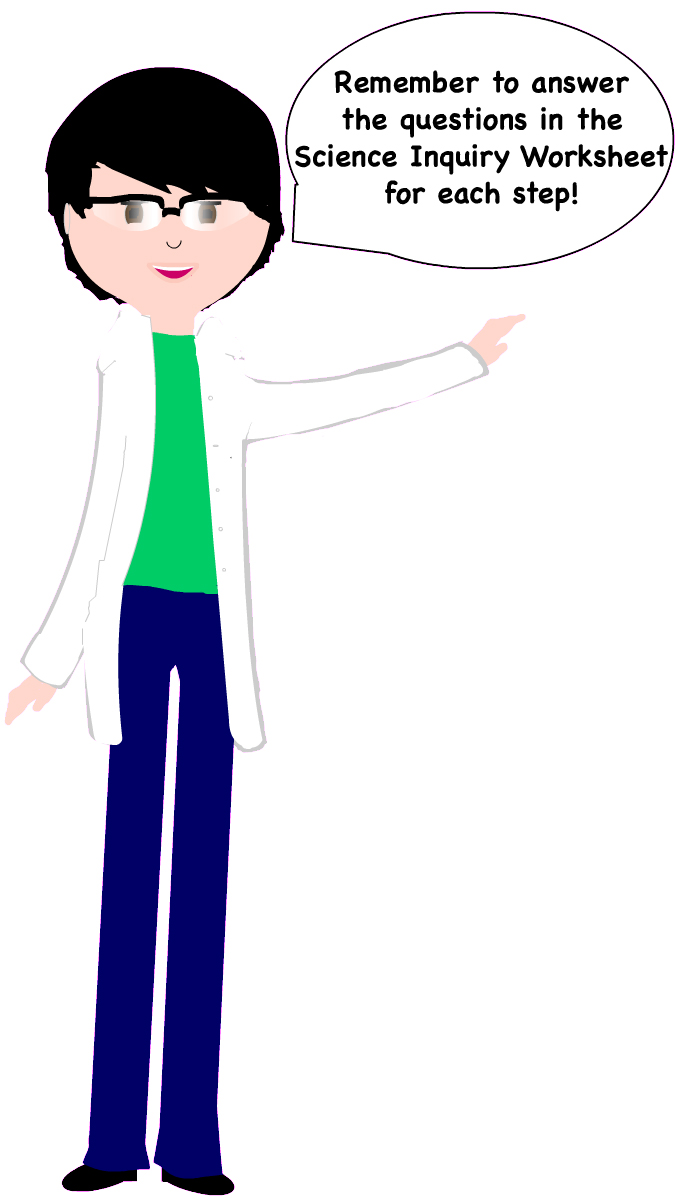
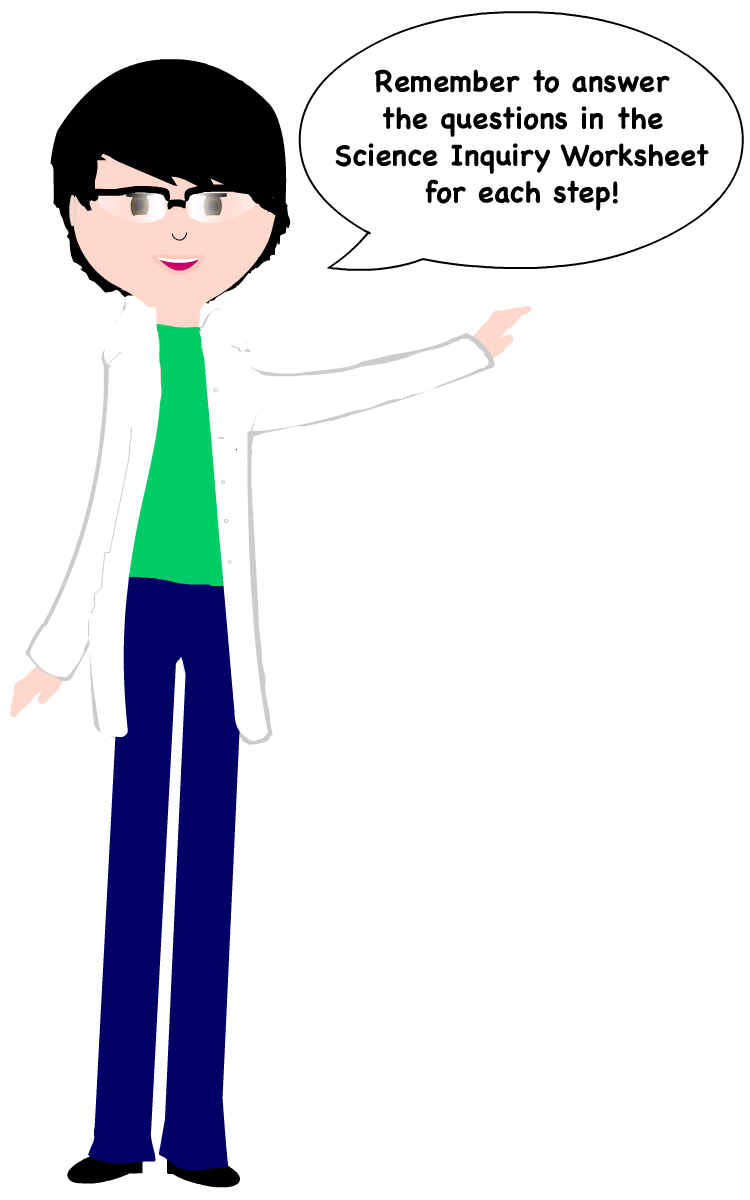
teacher

diff --git a/demo/index.html b/demo/index.html
@@ -14,7 +14,7 @@
                 width: 100%;
             }
             #teacher {
-                max-width: 375px;
+                max-width: 390px;
                 height: auto;
             }
             #main_container {
